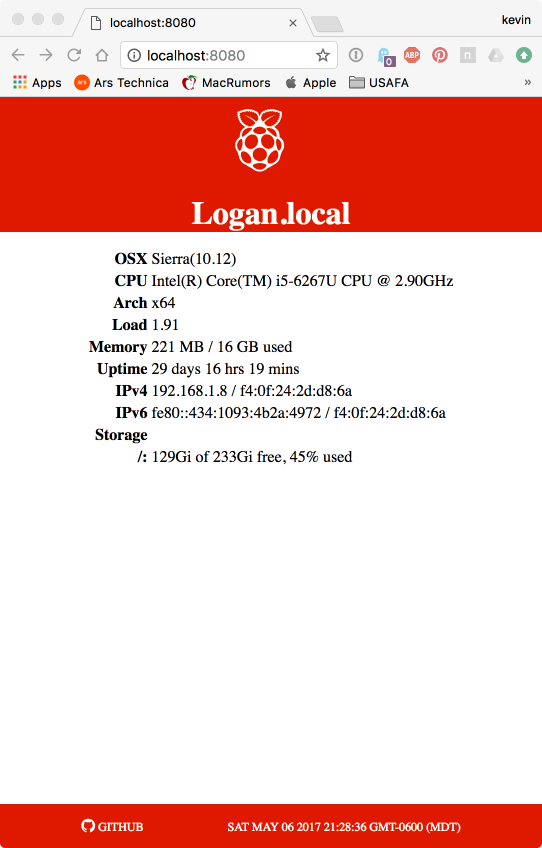
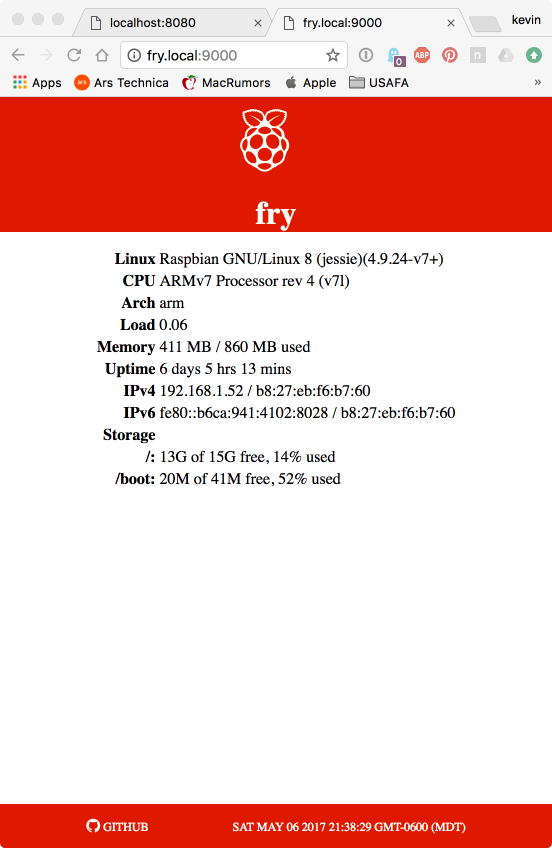
update

diff --git a/README.md b/README.md
@@ -13,6 +13,8 @@ platform way to see what they are up too.
 
 ![](./pics/apple.png)
 
+![](./pics/raspbian.png)
+
 ## Usage
 
 Command line:
